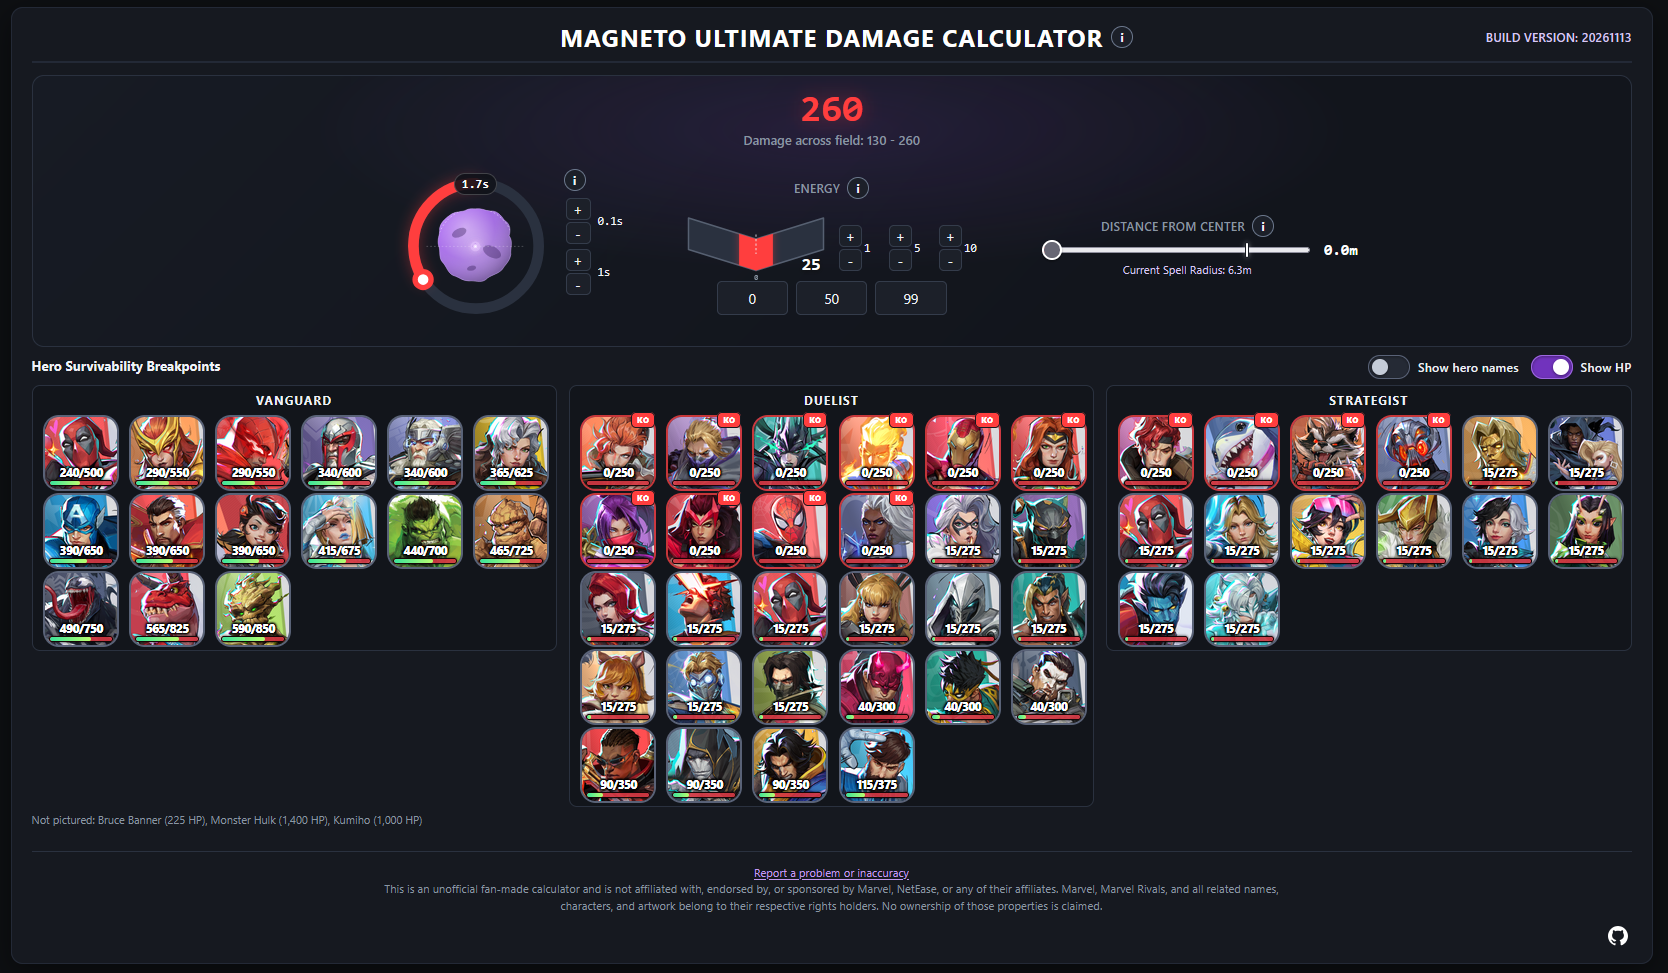
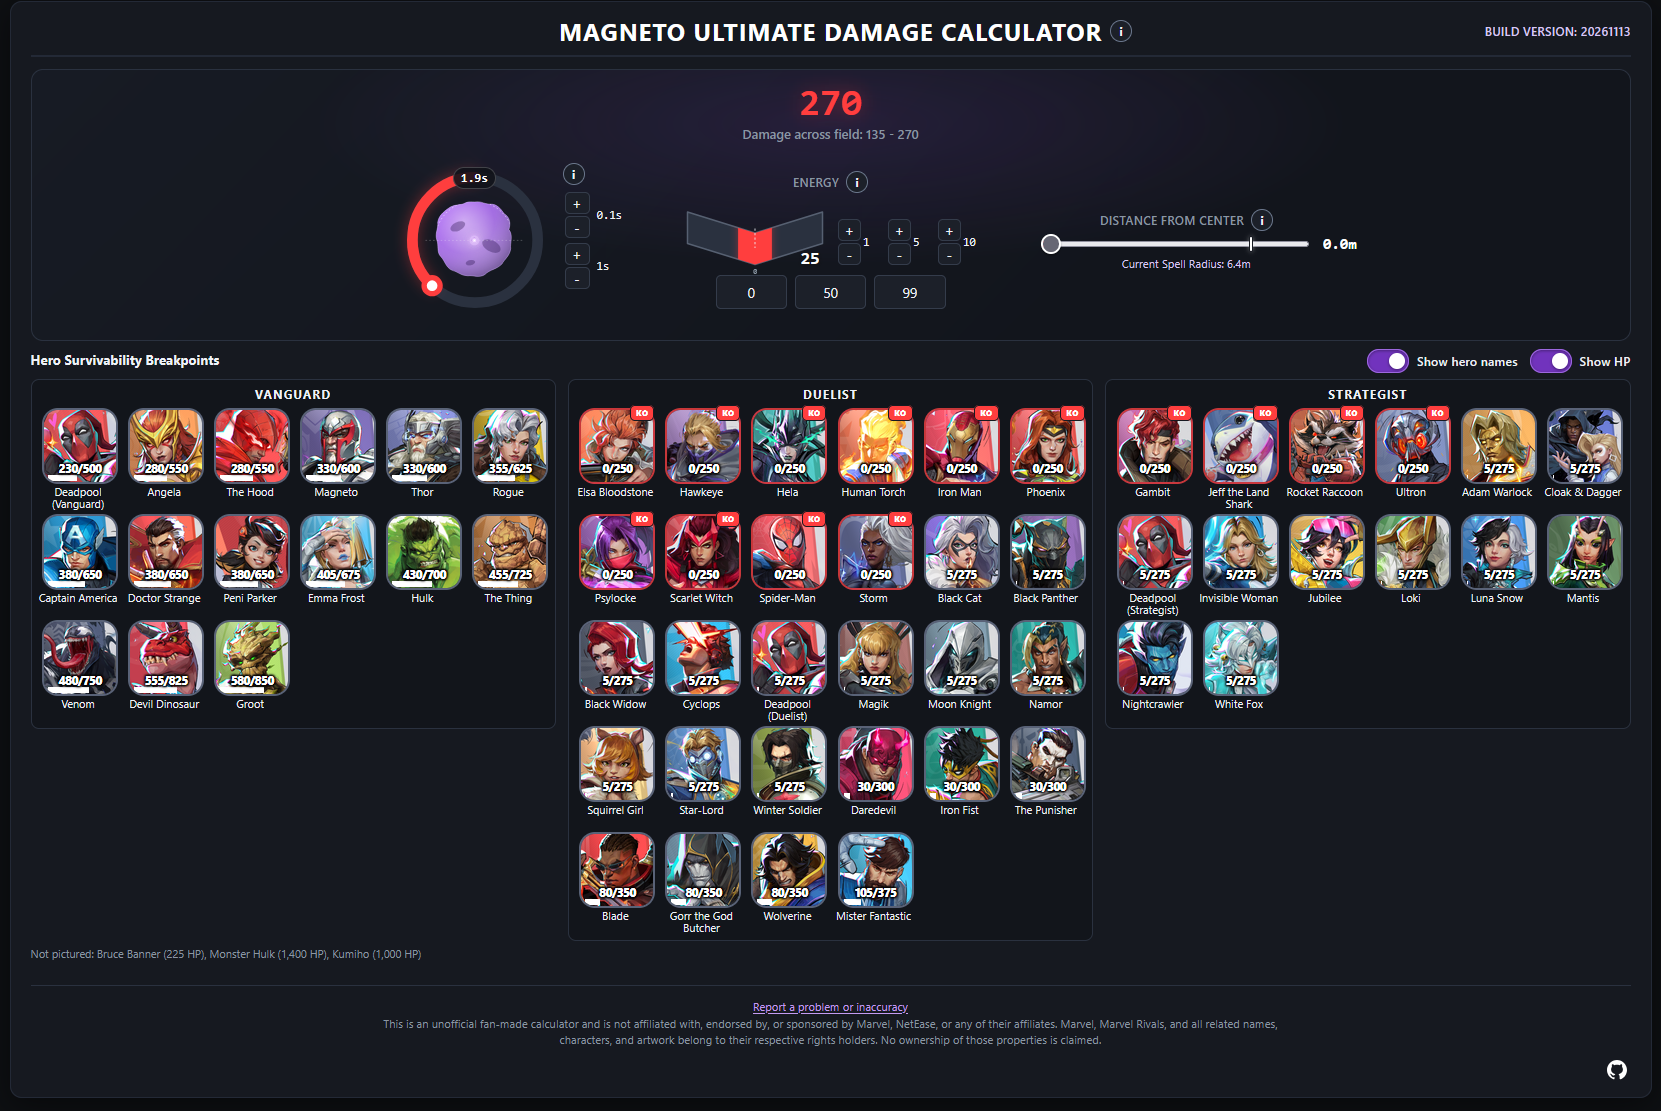
hero name toggle works on mobile, adjust HP text position and update some text

diff --git a/index.html b/index.html
@@ -235,7 +235,7 @@
     </section>
     <footer class="site-disclaimer">
         <p><a href="https://github.com/buddyboom/marvel-rivals-magneto-ultimate/issues/new">Report a problem or inaccuracy</a></p>
-        <p>This is an unofficial fan-made calculator and is not affiliated with, endorsed by, or sponsored by Marvel, NetEase, or any of their affiliates. Marvel, Marvel Rivals, and all related names, characters, and artwork belong to their respective rights holders. No ownership of those properties is claimed.</p>
+        <p>This is a fan-made calculator and is not affiliated with, endorsed by, or sponsored by Marvel, NetEase, or any of their affiliates. Marvel, Marvel Rivals, and all related names, characters, and artwork belong to their respective rights holders. No ownership of those properties is claimed.</p>
         <div class="site-footer-links">
             <a class="github-link" href="https://github.com/buddyboom/marvel-rivals-magneto-ultimate" aria-label="View this project on GitHub">
                 <svg viewBox="0 0 16 16" aria-hidden="true" focusable="false">

diff --git a/styles.css b/styles.css
@@ -1115,7 +1115,7 @@
             position: absolute;
             z-index: 3;
             right: -2px;
-            bottom: 7px;
+            bottom: 8px;
             left: -2px;
             margin: 0;
             color: #fff;
@@ -1202,6 +1202,10 @@
             line-clamp: 2;
             -webkit-box-orient: vertical;
             -webkit-line-clamp: 2;
+        }
+
+        .roster-section:not(.show-hero-names) .hero-name {
+            display: none;
         }
 
         .hero-hp {

diff --git a/README.md b/README.md
@@ -2,7 +2,7 @@
 
 # Magneto Ultimate Damage Calculator
 
-An unofficial, fan-made calculator for exploring Magneto's ultimate damage and its effect on the listed Marvel Rivals heroes.
+A fan-made calculator for exploring Magneto's ultimate damage and its effect on the listed Marvel Rivals heroes.
 
 **GitHub Pages URL:** https://buddyboom.github.io/marvel-rivals-magneto-ultimate/
 
